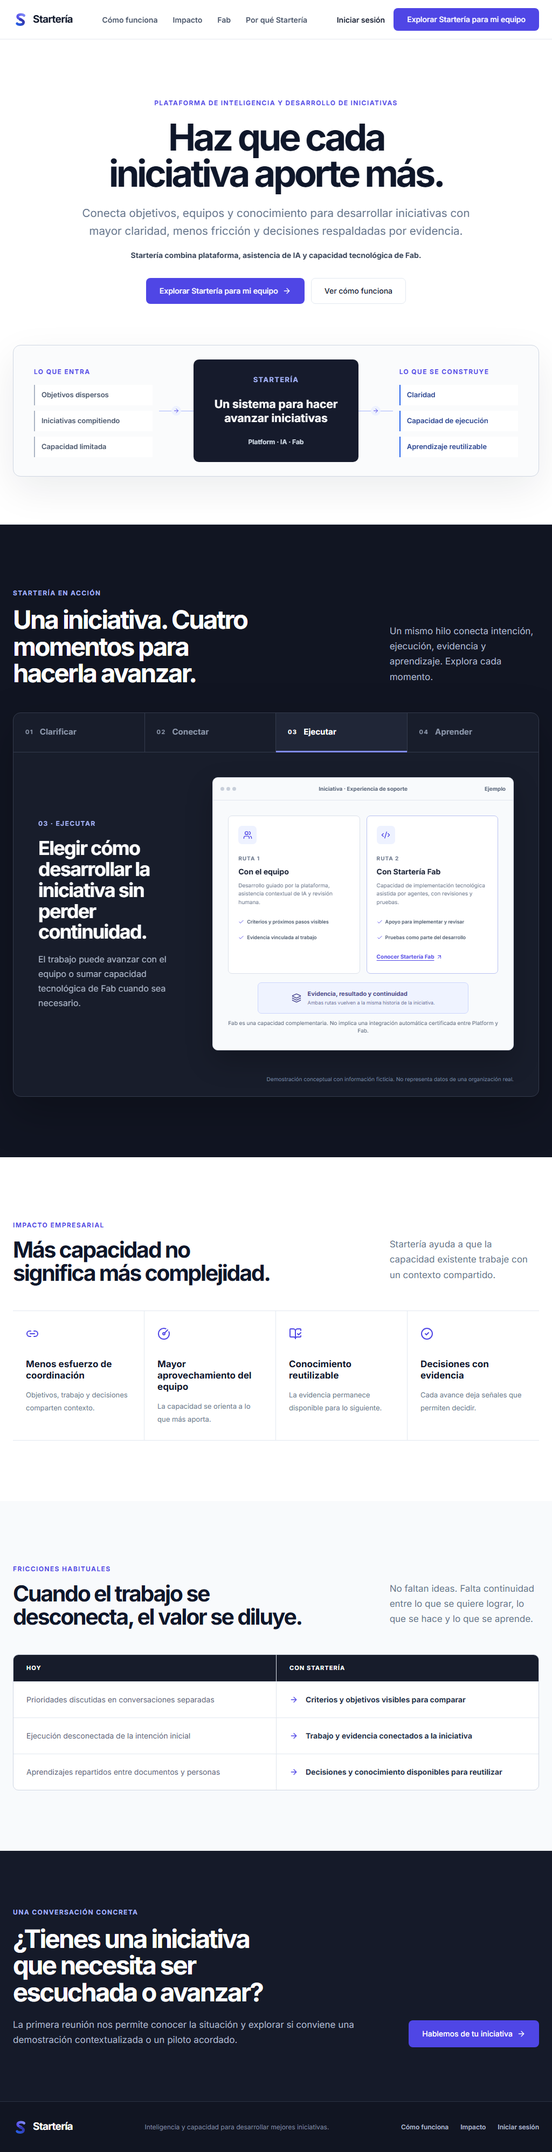
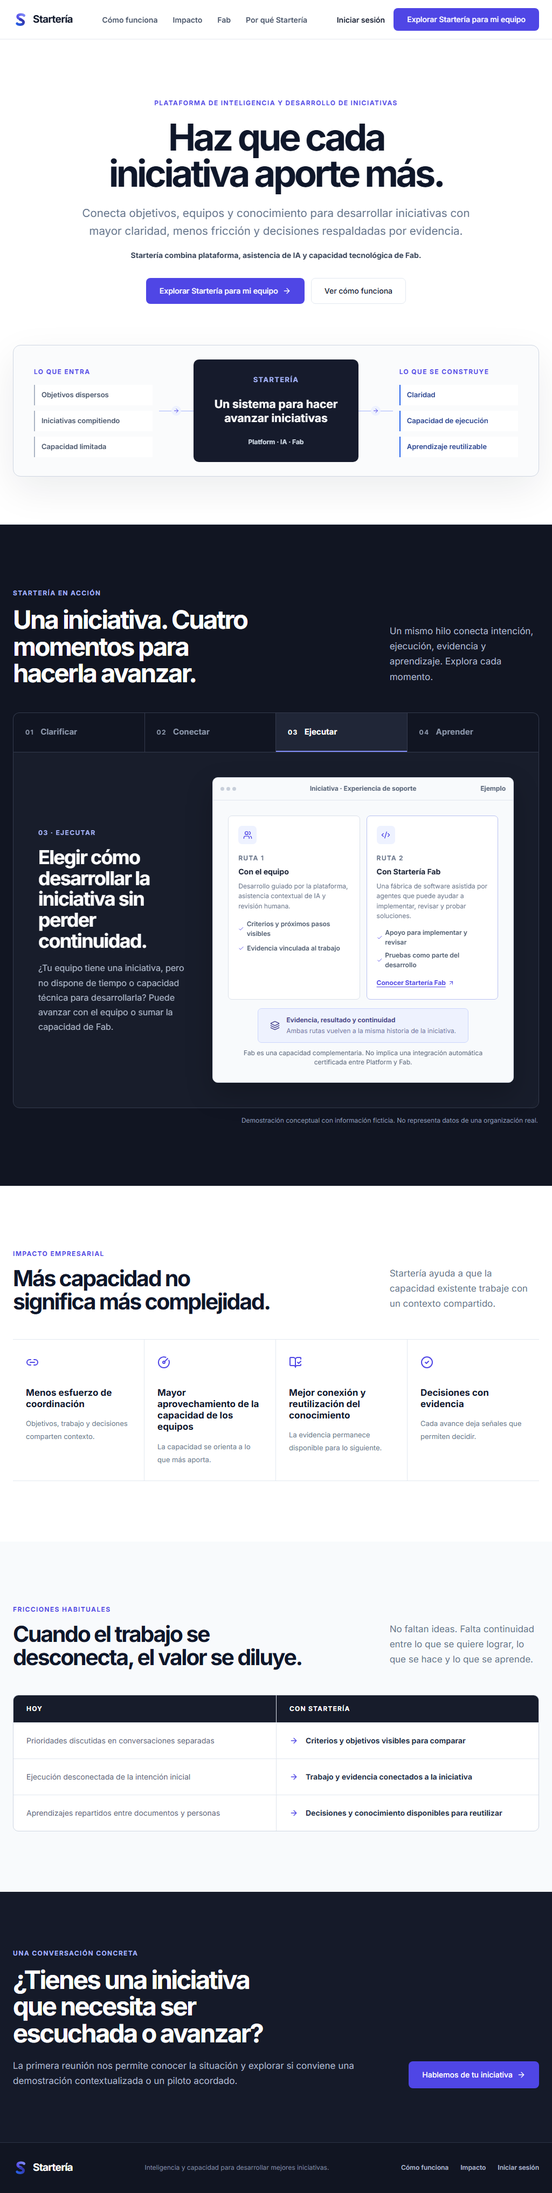
fix(landing): resolve KAN-255 UX review findings

diff --git a/front/src/app/components/landing/landing.css b/front/src/app/components/landing/landing.css
@@ -69,25 +69,25 @@
 .landing-anchor { position: relative; top: -96px; display: block; width: 1px; height: 1px; }
 .landing-story .landing-kicker, .landing-story .landing-eyebrow { color: #a5b4fc; }
 .landing-story .landing-section-heading > p { color: #aeb8ca; }
-.story-stage { border: 1px solid #343b4d; border-radius: 14px; background: #181d2b; box-shadow: 0 28px 80px rgba(0, 0, 0, .25); overflow: hidden; }
-.story-tabs { display: grid; grid-template-columns: repeat(4, 1fr); border-bottom: 1px solid #343b4d; }
+.story-stage { overflow: hidden; }
+.story-tabs { display: grid; grid-template-columns: repeat(4, 1fr); border: 1px solid #343b4d; border-bottom: 0; border-radius: 12px 12px 0 0; overflow: hidden; }
 .story-tabs button { position: relative; display: flex; align-items: center; gap: 12px; min-height: 72px; padding: 0 22px; border: 0; border-right: 1px solid #343b4d; background: transparent; color: #8e99ad; cursor: pointer; text-align: left; }
 .story-tabs button:last-child { border-right: 0; }
 .story-tabs button::after { content: ''; position: absolute; left: 0; right: 0; bottom: -1px; height: 3px; background: transparent; }
 .story-tabs button[aria-selected='true'] { background: #202637; color: #fff; }
 .story-tabs button[aria-selected='true']::after { background: #818cf8; }
-.story-tabs button span { font-size: 11px; font-weight: 800; letter-spacing: .12em; }
+.story-tabs button span { font-size: 12px; font-weight: 800; letter-spacing: .12em; }
 .story-tabs button strong { font-size: 15px; }
-.story-panel { display: grid; grid-template-columns: .66fr 1.34fr; gap: 48px; min-height: 510px; padding: 46px; }
+.story-panel { display: grid; grid-template-columns: .66fr 1.34fr; gap: 48px; min-height: 510px; padding: 46px; border: 1px solid #343b4d; border-radius: 0 0 12px 12px; background: #181d2b; }
 .story-panel__copy { align-self: center; animation: landing-rise .42s ease both; }
 .story-panel__copy h3 { margin: 16px 0 18px; font-size: clamp(28px, 3.5vw, 44px); font-weight: 700; letter-spacing: -.045em; line-height: 1.08; }
 .story-panel__copy p { margin: 0; color: #aeb8ca; font-size: 16px; line-height: 1.7; }
 .story-canvas { align-self: center; min-height: 390px; border: 1px solid #d8dee9; border-radius: 10px; background: #f8fafc; color: #182034; box-shadow: 0 20px 50px rgba(0, 0, 0, .22); overflow: hidden; animation: landing-rise .42s ease both; }
-.story-canvas__topbar { display: grid; grid-template-columns: 1fr auto 1fr; align-items: center; min-height: 42px; padding: 0 14px; border-bottom: 1px solid #e1e6ee; color: #596579; font-size: 10px; font-weight: 700; }
+.story-canvas__topbar { display: grid; grid-template-columns: 1fr auto 1fr; align-items: center; min-height: 42px; padding: 0 14px; border-bottom: 1px solid #e1e6ee; color: #596579; font-size: 12px; font-weight: 700; }
 .story-canvas__topbar > span:last-child { justify-self: end; }
 .story-canvas__topbar i { display: inline-block; width: 7px; height: 7px; margin-right: 4px; border-radius: 50%; background: #c8cfda; }
 .story-canvas__body { padding: 28px; }
-.story-label { color: #69758a; font-size: 10px; font-weight: 800; letter-spacing: .1em; text-transform: uppercase; }
+.story-label { color: #69758a; font-size: 12px; font-weight: 800; letter-spacing: .1em; text-transform: uppercase; }
 .story-objective { display: flex; align-items: center; gap: 18px; padding: 20px; border: 1px solid #d5dbe5; border-left: 3px solid var(--landing-indigo); border-radius: 7px; background: #fff; }
 .story-objective__icon, .story-route__icon { display: grid; flex: 0 0 auto; width: 42px; height: 42px; place-items: center; border-radius: 7px; background: #eef2ff; color: var(--landing-indigo); }
 .story-objective__icon svg, .story-route__icon svg { width: 20px; }
@@ -95,44 +95,44 @@
 .story-signal-grid { display: grid; grid-template-columns: 1fr 1fr; gap: 12px; margin-top: 14px; }
 .story-signal-grid > div { display: grid; grid-template-columns: 24px 1fr; padding: 16px; border: 1px solid #e1e6ee; border-radius: 7px; background: #fff; }
 .story-signal-grid svg { grid-row: 1 / 3; width: 16px; color: #64748b; }
-.story-signal-grid span { color: #69758a; font-size: 10px; font-weight: 700; }
+.story-signal-grid span { color: #69758a; font-size: 12px; font-weight: 700; }
 .story-signal-grid strong { margin-top: 4px; font-size: 12px; }
-.story-assist, .story-connection { display: flex; align-items: center; gap: 10px; margin-top: 18px; padding: 12px 14px; border-radius: 6px; background: #eef2ff; color: #3730a3; font-size: 11px; font-weight: 600; }
+.story-assist, .story-connection { display: flex; align-items: center; gap: 10px; margin-top: 18px; padding: 12px 14px; border-radius: 6px; background: #eef2ff; color: #3730a3; font-size: 12px; font-weight: 600; }
 .story-assist svg, .story-connection svg { width: 15px; flex: 0 0 auto; }
 .story-priority-head, .story-priority-row { display: grid; grid-template-columns: 44px 1fr 88px; align-items: center; }
-.story-priority-head { padding: 0 14px 10px 58px; color: #69758a; font-size: 10px; font-weight: 800; letter-spacing: .06em; text-transform: uppercase; }
+.story-priority-head { padding: 0 14px 10px 58px; color: #69758a; font-size: 12px; font-weight: 800; letter-spacing: .06em; text-transform: uppercase; }
 .story-priority-head span:last-child { text-align: right; }
 .story-priority-row { min-height: 62px; margin-bottom: 8px; padding: 0 14px; border: 1px solid #e0e5ed; border-radius: 7px; background: #fff; font-size: 12px; font-weight: 600; }
-.story-priority-row__index { color: #818cf8; font-size: 10px; font-weight: 800; }
-.story-priority-row strong { justify-self: end; padding: 5px 8px; border-radius: 4px; background: #eef2ff; color: #3730a3; font-size: 10px; }
+.story-priority-row__index { color: #818cf8; font-size: 12px; font-weight: 800; }
+.story-priority-row strong { justify-self: end; padding: 5px 8px; border-radius: 4px; background: #eef2ff; color: #3730a3; font-size: 12px; }
 .story-route-split { display: grid; grid-template-columns: 1fr 1fr; gap: 12px; }
 .story-route { position: relative; padding: 18px; border: 1px solid #dbe1ea; border-radius: 7px; background: #fff; }
 .story-route--fab { border-color: #b8c1f1; }
 .story-route__icon { width: 34px; height: 34px; margin-bottom: 12px; }
 .story-route__icon svg { width: 17px; }
 .story-route > strong { display: block; margin: 4px 0 8px; font-size: 14px; }
-.story-route p { min-height: 51px; margin: 0; color: #657186; font-size: 10px; line-height: 1.55; }
-.story-route ul { display: grid; gap: 5px; margin: 12px 0 0; padding: 0; list-style: none; color: #475569; font-size: 9px; font-weight: 600; }
+.story-route p { min-height: 58px; margin: 0; color: #657186; font-size: 12px; line-height: 1.55; }
+.story-route ul { display: grid; gap: 6px; margin: 12px 0 0; padding: 0; list-style: none; color: #475569; font-size: 12px; font-weight: 600; }
 .story-route li { display: flex; align-items: center; gap: 5px; }
 .story-route li svg { width: 11px; color: var(--landing-indigo); }
-.story-route a { display: inline-flex; align-items: center; gap: 4px; margin-top: 12px; color: var(--landing-indigo); font-size: 10px; font-weight: 800; text-decoration: underline; text-underline-offset: 3px; }
+.story-route a { display: inline-flex; align-items: center; gap: 4px; margin-top: 12px; color: var(--landing-indigo); font-size: 12px; font-weight: 800; text-decoration: underline; text-underline-offset: 3px; }
 .story-route a svg { width: 12px; }
 .story-convergence { display: flex; align-items: center; justify-content: center; gap: 12px; width: 78%; margin: 16px auto 0; padding: 12px; border: 1px solid #c7d2fe; border-radius: 7px; background: #eef2ff; color: #312e81; }
 .story-convergence > svg { width: 18px; }
 .story-convergence div { display: grid; }
-.story-convergence strong { font-size: 11px; }
-.story-convergence span { margin-top: 2px; color: #5b5fa0; font-size: 9px; }
-.story-disclaimer { margin: 10px 0 0; color: #596579; font-size: 10px; line-height: 1.45; text-align: center; }
+.story-convergence strong { font-size: 12px; }
+.story-convergence span { margin-top: 2px; color: #5b5fa0; font-size: 12px; }
+.story-disclaimer { margin: 10px 0 0; color: #596579; font-size: 12px; line-height: 1.45; text-align: center; }
 .story-learning { display: grid; grid-template-columns: .85fr 54px 1.15fr; align-items: center; min-height: 275px; }
 .story-learning__source, .story-learning__reuse { padding: 22px; border: 1px solid #dbe1ea; border-radius: 7px; background: #fff; }
 .story-learning__source { display: grid; justify-items: center; gap: 8px; text-align: center; }
 .story-learning__source svg { width: 34px; color: var(--landing-indigo); }
-.story-learning__source span { color: #69758a; font-size: 10px; }
+.story-learning__source span { color: #69758a; font-size: 12px; }
 .story-learning__source strong { font-size: 13px; }
 .story-learning__line { height: 1px; background: #818cf8; }
 .story-learning__reuse strong { display: block; margin: 8px 0; font-size: 14px; }
-.story-learning__reuse p { margin: 0; color: #69758a; font-size: 10px; line-height: 1.55; }
-.story-fiction-note { margin: 0; padding: 0 46px 24px; color: #7f8ba0; font-size: 10px; text-align: right; }
+.story-learning__reuse p { margin: 0; color: #69758a; font-size: 12px; line-height: 1.55; }
+.story-fiction-note { margin: 0; padding: 14px 2px 0; color: #8e9bb1; font-size: 12px; text-align: right; }
 
 .landing-impact { background: #fff; }
 .impact-rail { display: grid; grid-template-columns: repeat(4, 1fr); border-top: 1px solid var(--landing-line); border-bottom: 1px solid var(--landing-line); }
@@ -145,7 +145,7 @@
 .landing-friction { background: var(--landing-soft); }
 .friction-table { border: 1px solid #cfd6e2; border-radius: 10px; background: #fff; overflow: hidden; }
 .friction-table__head, .friction-table__row { display: grid; grid-template-columns: 1fr 1fr; }
-.friction-table__head { background: #171c2b; color: #fff; font-size: 11px; font-weight: 800; letter-spacing: .1em; text-transform: uppercase; }
+.friction-table__head { background: #171c2b; color: #fff; font-size: 12px; font-weight: 800; letter-spacing: .1em; text-transform: uppercase; }
 .friction-table__head span, .friction-table__row > span { padding: 16px 24px; }
 .friction-table__head span:last-child, .friction-table__row > span:last-child { border-left: 1px solid #dfe4ec; }
 .friction-table__row { border-top: 1px solid var(--landing-line); color: #596579; font-size: 14px; }
@@ -179,7 +179,7 @@
   .landing-transformation__hub { min-height: 175px; padding: 20px 14px; }
   .landing-transformation__hub strong { font-size: 17px; }
   .landing-transformation__column { padding-inline: 4px; }
-  .landing-transformation__list li { padding-inline: 9px; font-size: 11px; }
+  .landing-transformation__list li { padding-inline: 9px; font-size: 12px; }
   .landing-section-heading { gap: 44px; }
   .story-panel { grid-template-columns: 1fr; gap: 28px; padding: 36px; }
   .story-panel__copy { max-width: 650px; }
@@ -237,9 +237,9 @@
   .friction-table__head { display: none; }
   .friction-table__row { grid-template-columns: 1fr; padding: 18px; }
   .friction-table__row > span { min-height: auto; padding: 10px 4px; }
-  .friction-table__row > span:first-child::before { content: 'Hoy'; display: block; width: 72px; flex: 0 0 auto; color: #7b8799; font-size: 9px; font-weight: 800; letter-spacing: .1em; text-transform: uppercase; }
+  .friction-table__row > span:first-child::before { content: 'Hoy'; display: block; width: 82px; flex: 0 0 auto; color: #667085; font-size: 12px; font-weight: 800; letter-spacing: .1em; text-transform: uppercase; }
   .friction-table__row > span:last-child { border-left: 0; }
-  .friction-table__row > span:last-child::before { content: 'Con Startería'; width: 72px; flex: 0 0 auto; color: var(--landing-indigo); font-size: 9px; font-weight: 800; letter-spacing: .08em; text-transform: uppercase; }
+  .friction-table__row > span:last-child::before { content: 'Con Startería'; width: 82px; flex: 0 0 auto; color: var(--landing-indigo); font-size: 12px; font-weight: 800; letter-spacing: .08em; text-transform: uppercase; }
   .friction-table__row svg { display: none; }
   .landing-conversion { padding: 80px 0; }
   .landing-conversion__inner > a { width: 100%; }

diff --git a/front/src/app/pages/LandingPage.tsx b/front/src/app/pages/LandingPage.tsx
@@ -10,7 +10,7 @@ import {
 import { useEffect, useState } from 'react';
 import { Link } from 'react-router';
 import { Button } from '../components/ui/button';
-import { StarteriaInteractiveStory } from '../components/landing/StarteriaInteractiveStory';
+import { STARTERIA_FAB_REVEAL_EVENT, StarteriaInteractiveStory } from '../components/landing/StarteriaInteractiveStory';
 import { StarteriaMark } from '../components/landing/StarteriaMark';
 import { TransformationFlow } from '../components/landing/TransformationFlow';
 import { PUBLIC_LANDING_CONFIG } from '../config/publicLanding';
@@ -18,8 +18,8 @@ import '../components/landing/landing.css';
 
 const impactItems = [
   { icon: Link2, label: 'Menos esfuerzo de coordinación', detail: 'Objetivos, trabajo y decisiones comparten contexto.' },
-  { icon: CircleGauge, label: 'Mayor aprovechamiento del equipo', detail: 'La capacidad se orienta a lo que más aporta.' },
-  { icon: BookOpenCheck, label: 'Conocimiento reutilizable', detail: 'La evidencia permanece disponible para lo siguiente.' },
+  { icon: CircleGauge, label: 'Mayor aprovechamiento de la capacidad de los equipos', detail: 'La capacidad se orienta a lo que más aporta.' },
+  { icon: BookOpenCheck, label: 'Mejor conexión y reutilización del conocimiento', detail: 'La evidencia permanece disponible para lo siguiente.' },
   { icon: CheckCircle2, label: 'Decisiones con evidencia', detail: 'Cada avance deja señales que permiten decidir.' },
 ];
 
@@ -56,6 +56,10 @@ export function LandingPage() {
     };
   }, []);
 
+  function revealFab() {
+    window.dispatchEvent(new Event(STARTERIA_FAB_REVEAL_EVENT));
+  }
+
   return (
     <div className="landing-root">
       <a className="landing-skip-link" href="#contenido">Saltar al contenido</a>
@@ -68,7 +72,7 @@ export function LandingPage() {
           <nav className="landing-nav landing-nav--desktop" aria-label="Navegación principal">
             <a href="#en-accion">Cómo funciona</a>
             <a href="#impacto">Impacto</a>
-            <a href="#fab">Fab</a>
+            <a href="#fab" onClick={revealFab}>Fab</a>
             <a href="#fricciones">Por qué Startería</a>
           </nav>
           <div className="landing-header__actions">
@@ -95,7 +99,18 @@ export function LandingPage() {
               ['Impacto', '#impacto'],
               ['Startería Fab', '#fab'],
               ['Por qué Startería', '#fricciones'],
-            ].map(([label, href]) => <a key={href} href={href} onClick={() => setMenuOpen(false)}>{label}</a>)}
+            ].map(([label, href]) => (
+              <a
+                key={href}
+                href={href}
+                onClick={() => {
+                  if (href === '#fab') revealFab();
+                  setMenuOpen(false);
+                }}
+              >
+                {label}
+              </a>
+            ))}
             <Link to="/auth" onClick={() => setMenuOpen(false)}>Iniciar sesión</Link>
           </nav>
         )}

diff --git a/front/src/app/components/landing/StarteriaInteractiveStory.tsx b/front/src/app/components/landing/StarteriaInteractiveStory.tsx
@@ -14,6 +14,8 @@ import {
 
 type StageId = 'clarificar' | 'conectar' | 'ejecutar' | 'aprender';
 
+export const STARTERIA_FAB_REVEAL_EVENT = 'starteria:reveal-fab';
+
 type Stage = {
   id: StageId;
   number: string;
@@ -42,7 +44,7 @@ const stages: Stage[] = [
     number: '03',
     label: 'Ejecutar',
     headline: 'Elegir cómo desarrollar la iniciativa sin perder continuidad.',
-    description: 'El trabajo puede avanzar con el equipo o sumar capacidad tecnológica de Fab cuando sea necesario.',
+    description: '¿Tu equipo tiene una iniciativa, pero no dispone de tiempo o capacidad técnica para desarrollarla? Puede avanzar con el equipo o sumar la capacidad de Fab.',
   },
   {
     id: 'aprender',
@@ -113,7 +115,7 @@ function ExecuteVisual() {
           <span className="story-route__icon"><Code2 aria-hidden="true" /></span>
           <span className="story-label">Ruta 2</span>
           <strong>Con Startería Fab</strong>
-          <p>Capacidad de implementación tecnológica asistida por agentes, con revisiones y pruebas.</p>
+          <p>Una fábrica de software asistida por agentes que puede ayudar a implementar, revisar y probar soluciones.</p>
           <ul>
             <li><Check aria-hidden="true" />Apoyo para implementar y revisar</li>
             <li><Check aria-hidden="true" />Pruebas como parte del desarrollo</li>
@@ -163,13 +165,18 @@ export function StarteriaInteractiveStory() {
   const ActiveVisual = visuals[activeId];
 
   useEffect(() => {
-    const revealFab = () => {
-      if (window.location.hash === '#fab') setActiveId('ejecutar');
+    const revealFab = () => setActiveId('ejecutar');
+    const revealFabFromHash = () => {
+      if (window.location.hash === '#fab') revealFab();
     };
 
-    revealFab();
-    window.addEventListener('hashchange', revealFab);
-    return () => window.removeEventListener('hashchange', revealFab);
+    revealFabFromHash();
+    window.addEventListener('hashchange', revealFabFromHash);
+    window.addEventListener(STARTERIA_FAB_REVEAL_EVENT, revealFab);
+    return () => {
+      window.removeEventListener('hashchange', revealFabFromHash);
+      window.removeEventListener(STARTERIA_FAB_REVEAL_EVENT, revealFab);
+    };
   }, []);
 
   function selectAndFocus(index: number) {

diff --git a/front/src/app/pages/__tests__/LandingPage.test.tsx b/front/src/app/pages/__tests__/LandingPage.test.tsx
@@ -66,6 +66,12 @@ describe('public landing — KAN-255 Platform + Fab', () => {
     );
     expect(within(panel).getByRole('link', { name: 'Conocer Startería Fab' })).toHaveAttribute('target', '_blank');
     expect(within(panel).getByText(/No implica una integración automática certificada/)).toBeInTheDocument();
+    expect(within(panel).getByText(/fábrica de software asistida por agentes que puede ayudar a implementar, revisar y probar soluciones/i)).toBeInTheDocument();
+
+    fireEvent.click(screen.getByRole('tab', { name: /Clarificar/ }));
+    fireEvent.click(screen.getByRole('link', { name: 'Fab' }));
+    expect(screen.getByRole('tab', { name: /Ejecutar/ })).toHaveAttribute('aria-selected', 'true');
+    expect(screen.getByRole('tabpanel')).toHaveTextContent('¿Tu equipo tiene una iniciativa, pero no dispone de tiempo o capacidad técnica para desarrollarla?');
   });
 
   it('resume impacto y fricciones sin repetir el recorrido ni inventar métricas', () => {
@@ -73,8 +79,8 @@ describe('public landing — KAN-255 Platform + Fab', () => {
 
     const impact = screen.getByRole('region', { name: 'Impacto empresarial' });
     expect(within(impact).getByText('Menos esfuerzo de coordinación')).toBeInTheDocument();
-    expect(within(impact).getByText('Mayor aprovechamiento del equipo')).toBeInTheDocument();
-    expect(within(impact).getByText('Conocimiento reutilizable')).toBeInTheDocument();
+    expect(within(impact).getByText('Mayor aprovechamiento de la capacidad de los equipos')).toBeInTheDocument();
+    expect(within(impact).getByText('Mejor conexión y reutilización del conocimiento')).toBeInTheDocument();
     expect(within(impact).getByText('Decisiones con evidencia')).toBeInTheDocument();
 
     const comparison = screen.getByRole('region', { name: 'Fricciones que Startería ayuda a reducir' });

diff --git a/front/e2e/public-landing-l1.spec.ts b/front/e2e/public-landing-l1.spec.ts
@@ -27,6 +27,12 @@ test.describe('Public landing — KAN-255 Platform + Fab', () => {
       'https://darkcodepe.github.io/sw-factory/',
     );
 
+    await tabs.getByRole('tab', { name: /Clarificar/ }).click();
+    await page.getByRole('navigation', { name: 'Navegación principal' }).getByRole('link', { name: 'Fab' }).click();
+    await expect(tabs.getByRole('tab', { name: /Ejecutar/ })).toHaveAttribute('aria-selected', 'true');
+    await expect(panel).toContainText('¿Tu equipo tiene una iniciativa, pero no dispone de tiempo o capacidad técnica para desarrollarla?');
+    await expect(panel).toContainText('fábrica de software asistida por agentes que puede ayudar a implementar, revisar y probar soluciones');
+
     await tabs.getByRole('tab', { name: /Aprender/ }).click();
     await expect(panel).toContainText('Lo aprendido vuelve a orientar nuevas iniciativas.');
 

diff --git a/CURRENT_STATE.md b/CURRENT_STATE.md
@@ -12,7 +12,7 @@ No debe leerse como runtime productivo certificado por defecto. La presencia de 
 
 La autoridad actual permite cambios frontend de producto solo cuando exista decision explicita y documentada de slice, con alcance acotado y sin modificar Core, AI, permisos, esquemas, rutas ni semantica de producto salvo autorizacion especifica. DS-05 y DS-06 son evidencia documental de pilotos frontend autorizados por slice.
 
-## KAN-255 — Public Landing V2 Platform + Fab autorizada (2026-11-19)
+## KAN-255 — Public Landing V2 Platform + Fab implementada y verificada en rama (2026-11-19)
 
 El responsable de producto ratificó Product ADR-011 en KAN-255#10862. La decisión autoriza un slice
 frontend-only para `/`: narrativa empresarial de Startería Platform, una única demostración
@@ -23,8 +23,13 @@ La Landing no ofrece enlaces a `/public/start`. Portfolio Entry conserva esa rut
 handoff y continuaciones sin cambios. ADR-011 supersede parcialmente ADR-006 y los contratos
 anteriores de Landing únicamente en el funnel de `/`; conserva separación, pre-Core y guardrails.
 
-Estado: autoridad documental materializada en la rama KAN-255; implementación, pruebas, revisión,
-PR, merge y despliegue aún no acreditados. Quedan excluidos Core, Steps 0–4, backend, IA productiva,
+Estado: implementación frontend y evidencia visual materializadas en la rama KAN-255. El build,
+typecheck frontend/backend, lint, suite frontend, E2E aislado de Landing, revisión responsive en
+390/768/1024/1440, movimiento reducido, Lighthouse Accessibility 100 y revisión independiente están
+acreditados localmente en `docs/implementation/public-landing/evidence/KAN-255/`. El E2E full-stack de
+Portfolio Entry no pudo ejecutarse porque Docker Desktop no está disponible; `/public/start` no fue
+modificado y sus pruebas unitarias de routing pasan. PR y CI remoto quedan pendientes en este punto;
+merge y despliegue no están autorizados. Quedan excluidos Core, Steps 0–4, backend, IA productiva,
 auth, persistencia, schema y el repositorio `sw-factory`.
 
 ## GOAL — activación general del razonamiento semántico E1 (2026-11-16)

diff --git a/STARTERIA_V2_MANIFEST.md b/STARTERIA_V2_MANIFEST.md
@@ -1162,9 +1162,9 @@ Portfolio Entry y el estado de destino comercial; no cambia `/public/start` ni s
 slice_id: KAN-255_PUBLIC_LANDING_V2_PLATFORM_FAB_NARRATIVE
 HU: KAN-255
 logic_status: ACTIVE_V2_BASELINE (Product ADR-011; frontend framing only)
-implementation_status: AUTHORIZED_NOT_IMPLEMENTED
-visual_status: V2_CANDIDATE
-evidence_status: NO_IMPLEMENTATION_EVIDENCE
+implementation_status: IMPLEMENTED_VERIFIED_ON_BRANCH
+visual_status: V2_IMPLEMENTED_RESPONSIVE_VERIFIED
+evidence_status: LOCAL_VERIFIED (build; frontend/backend typecheck; lint; full frontend suite; isolated Landing E2E; Lighthouse Accessibility 100 desktop/mobile; four-viewport captures; independent review)
 semantic_owner: Public Landing V2 exclusively for /
 authority: Jira KAN-255 + ratification comment 10862 + Product ADR-011 + Design System Contract v0.1 + Page Anatomy System v0.1
 entry_boundary: public route /
@@ -1175,6 +1175,8 @@ fab_boundary: explanatory external link and optional delivery route; no certifie
 scope: Landing copy, information architecture, one four-stage illustrative demo, Team/Fab branch, compact impact/friction sections, responsive/accessibility, affected frontend tests and evidence
 excluded: Portfolio Entry; Core; Steps 0-4; backend; Prisma/schema; auth; permissions; productive AI; sw-factory implementation; new commercial routes; fabricated metrics; merge; deploy
 tests_protecting_current_behavior: LandingPage.test.tsx; routes.public-entry.test.tsx; public-landing-l1.spec.ts; portfolio-entry-conversion.spec.ts
+implementation_evidence: docs/implementation/public-landing/evidence/KAN-255/ (before/after captures, architecture, skill report, machine-checked evidence); full-stack portfolio-entry-conversion E2E pending because Docker Desktop was unavailable locally
+delivery_status: PR_PENDING; CI_PENDING; merge and deploy NOT_AUTHORIZED
 supersession: ADR-006 PARTIALLY_SUPERSEDED; Landing UX Spec and continuation architecture superseded only for the root Landing surface; KAN-102 report retained as historical evidence
 ```
 

diff --git a/docs/implementation/public-landing/evidence/KAN-255/README.md b/docs/implementation/public-landing/evidence/KAN-255/README.md
@@ -51,3 +51,18 @@ Unused legacy `HeroTunnel` and `ConceptMap` files were left untouched because th
 - `design-evidence.json` — machine-checkable rendered-finish record.
 
 The after captures intentionally open `#fab`, so the unique product demonstration shows the approved Team/Fab execution split rather than fabricating live product data.
+
+## Verification record
+
+| Gate | Result |
+| --- | --- |
+| Focused Vitest (`LandingPage` + public routing) | PASS — 9/9 |
+| Full frontend Vitest suite | PASS |
+| Typecheck frontend + backend | PASS |
+| Baseline lint | PASS |
+| Production frontend build | PASS; existing bundle-size/dynamic-import warnings remain outside this slice |
+| Landing Playwright E2E | PASS — 2/2; includes four viewports, repeated Fab navigation, keyboard tabs, reduced motion and horizontal overflow |
+| Lighthouse | Accessibility 100 desktop and mobile; Best Practices 96 and SEO 91. Remaining local findings are the existing unauthenticated refresh 500, missing favicon/robots/llms infrastructure and are not Landing accessibility failures. |
+| Design evidence checker | PASS |
+| Independent review | Round 1 findings resolved: approved Fab/impact copy, repeated `#fab`, minimum demo type size and outer card treatment |
+| Portfolio Entry full-stack Playwright | PENDING — isolated runner requires Docker Desktop, unavailable in this environment. Portfolio Entry code and `/public/start` were not modified. |
